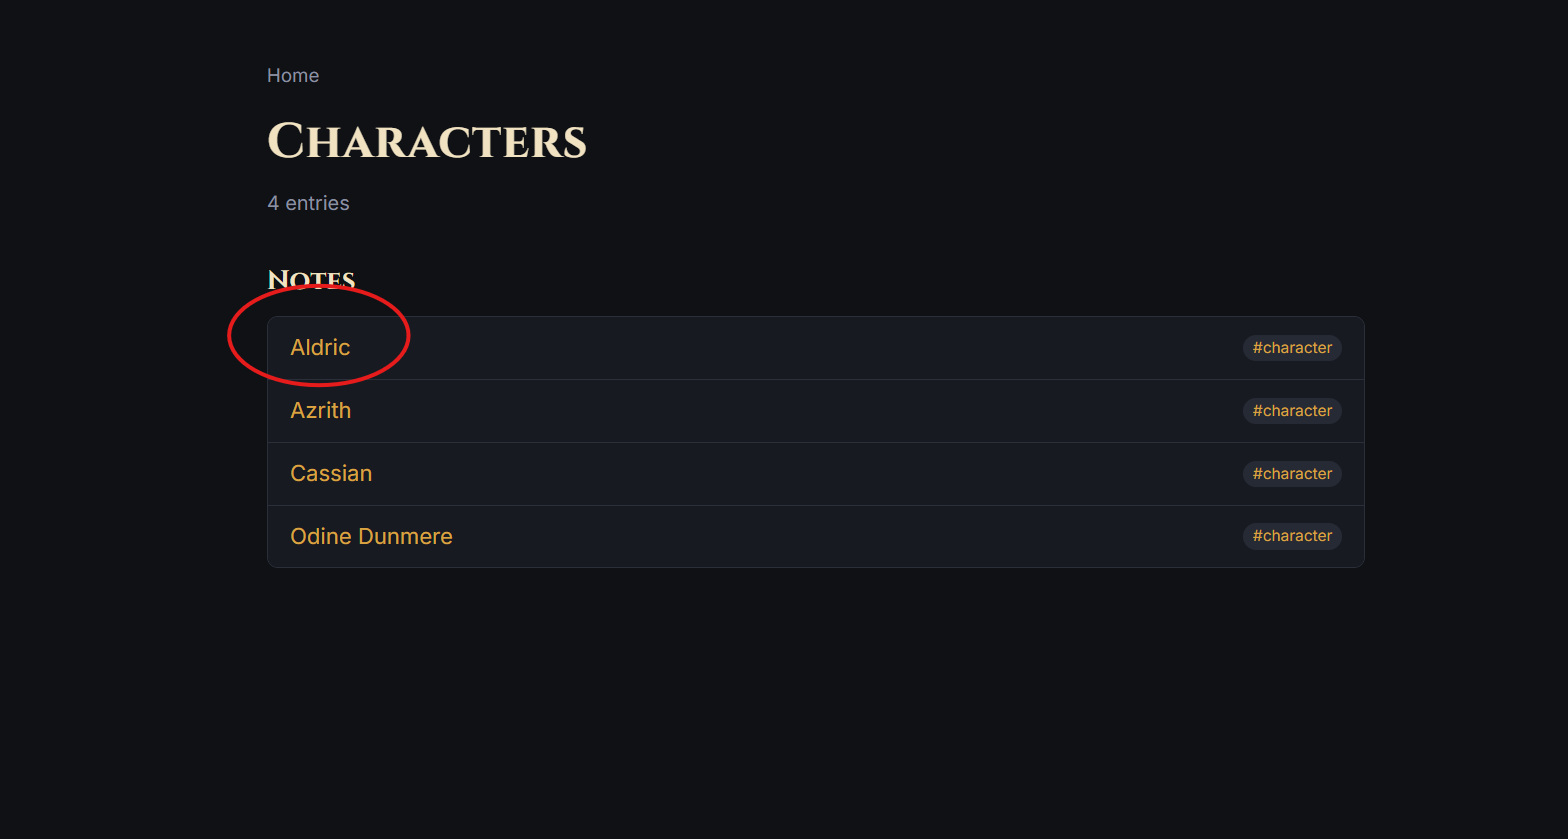
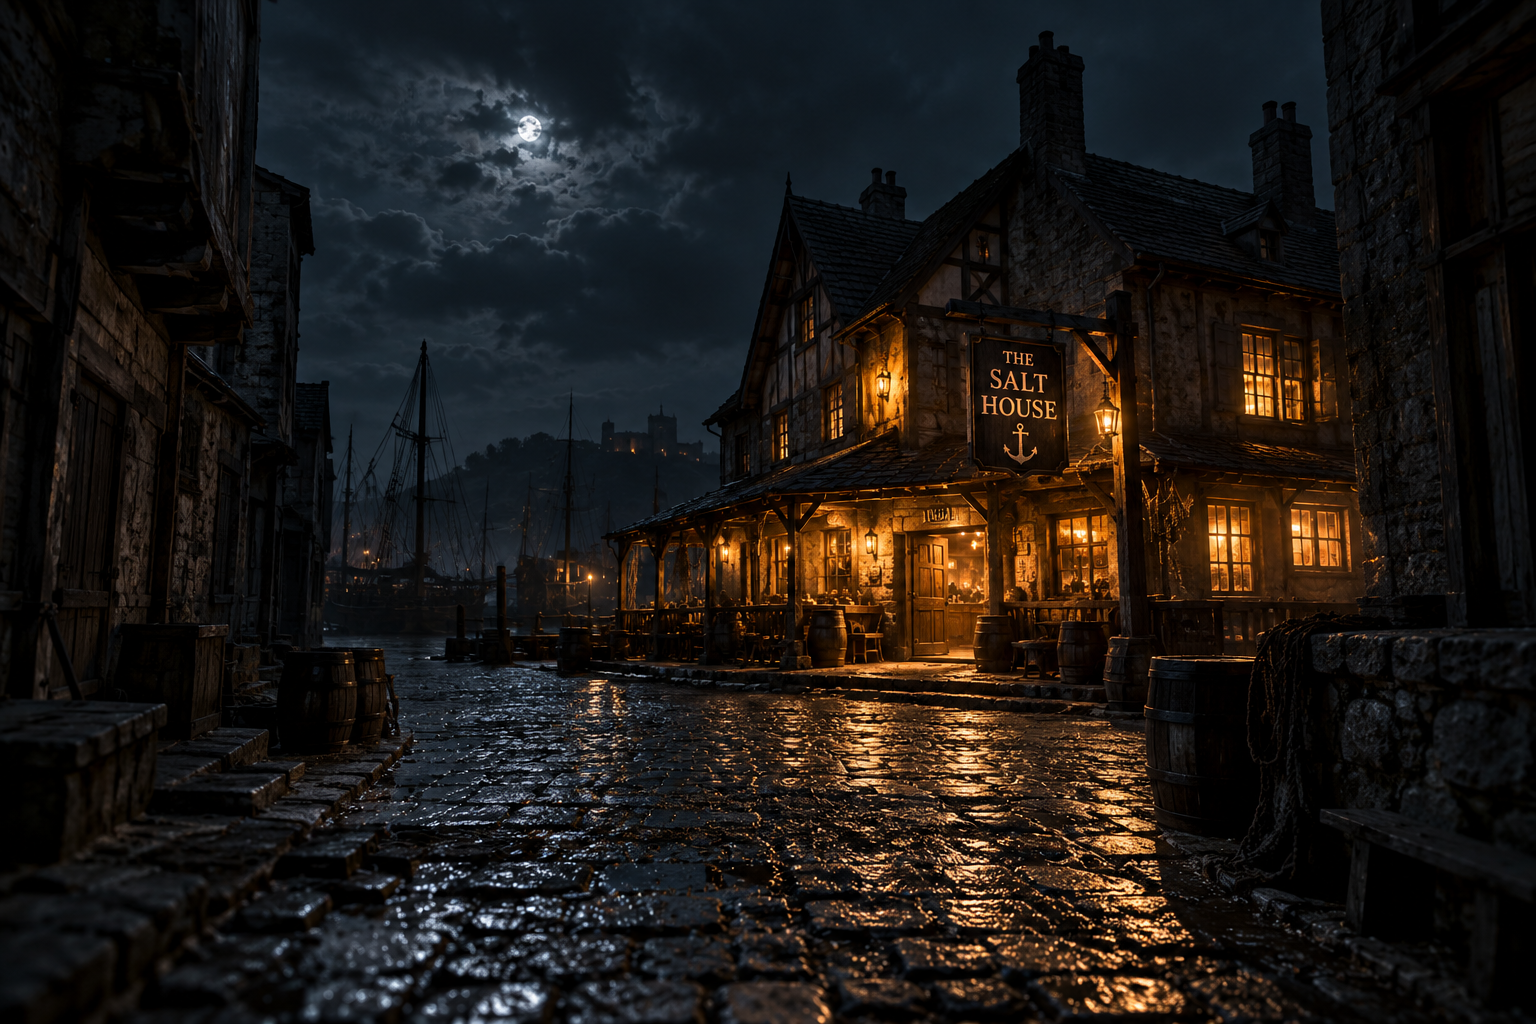
Vault Corrections

diff --git a/01 - Locations in Erovast/Havenport/Havenport.md b/01 - Locations in Erovast/Havenport/Havenport.md
@@ -12,9 +12,6 @@ date:
 # Havenport
 
 ![[Havenport_Cityscape.png]]
-
-![[Havenport_Vista_Art.png]]
-
 ## Summary
 
 Havenport is a rain-lashed, decaying seaport on a rocky coast, reached by the party through the [[Oathkeepers]]' teleportation circle from the [[Gleaming Keep]]. [[Duke Tristan Blackwood]] sent the party here to lie low after the Menagerie manticore scandal, with orders to find **[[Mauve Marigold]]** and stay with her until he sends word. It is also **[[Aldric]]'s home** and shares his surname. Source: [[2026.09.15|2026.09.15]], [[2026.09.22|2026.09.22]].

diff --git a/01 - Locations in Erovast/Everdale/King's Tourney.md b/01 - Locations in Erovast/Everdale/King's Tourney.md
@@ -14,6 +14,10 @@ dateUpdated: 2026-05-12
 
 # King's Tourney
 
+<div style="float: left; margin-right: 15px;">  
+<img src="../../Attachments/b8671640-a18c-471a-8a57-84f334ed909e.png" alt="King's Tourney" width="350" />  
+</div>
+
 ## Summary
 
 The King's Tourney is the annual tournament and festival held in the valley beneath [[Everdale]] and the [[Gleaming Keep]]. It lasts for about two weeks and draws noble houses, knights, merchants, performers, scouts, and spectators from across the Crownlands. Source: [[2026.05.05|2026.05.05]].

diff --git a/01 - Locations in Erovast/Everdale/White Feather Tor.md b/01 - Locations in Erovast/Everdale/White Feather Tor.md
@@ -11,9 +11,7 @@ date:
 
 # White Feather Tor
 
-<div style="float: left; margin-right: 10px;">  
-<img src="../../Attachments/WhiteFeatherTor.png" alt="White Feather Tor" width="300" />  
-</div>
+![[WhiteFeatherTor.png]]
 
 ## Summary
 
